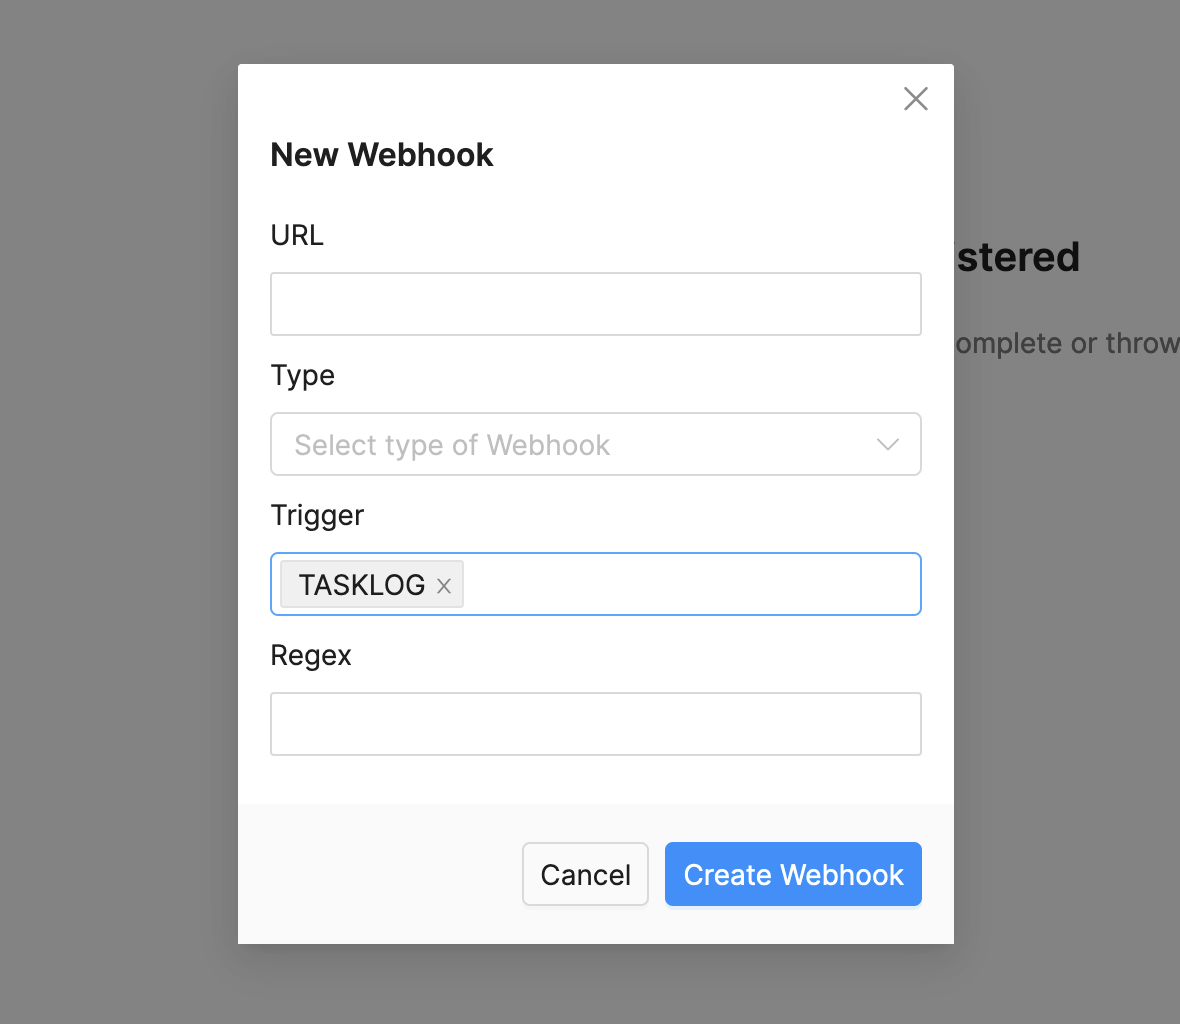
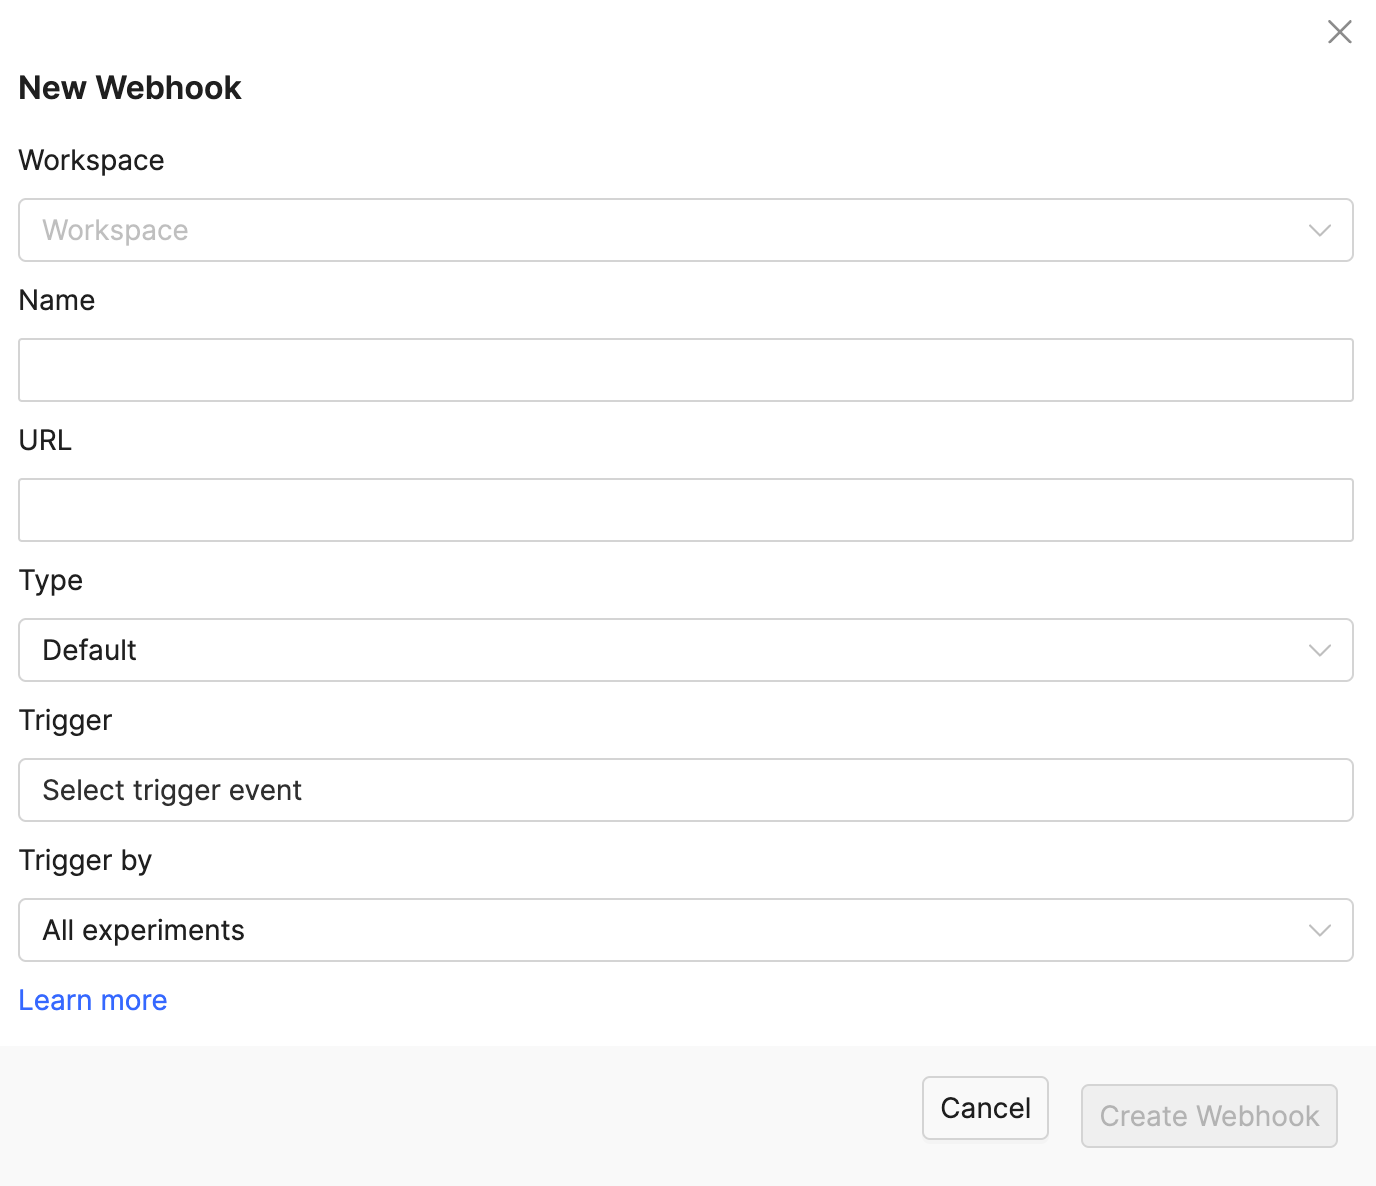
release notes and fixes

diff --git a/webui/react/src/components/WebhookCreateModal.tsx b/webui/react/src/components/WebhookCreateModal.tsx
@@ -5,6 +5,7 @@ import Select, { Option } from 'hew/Select';
 import { useToast } from 'hew/Toast';
 import React, { useCallback, useEffect, useId, useMemo, useState } from 'react';
 
+import Link from 'components/Link';
 import useFeature from 'hooks/useFeature';
 import usePermissions from 'hooks/usePermissions';
 import { paths } from 'routes/utils';
@@ -15,6 +16,7 @@ import { RunState, Workspace } from 'types';
 import handleError, { DetError, ErrorLevel, ErrorType } from 'utils/error';
 import { useObservable } from 'utils/observable';
 import { routeToReactUrl } from 'utils/routes';
+
 interface Props {
   onSuccess?: () => void;
 }
@@ -68,7 +70,7 @@ const triggerOptions = [
 ];
 const modeOptions = [
   {
-    label: 'All experiments in Workspace',
+    label: 'All experiments',
     value: V1WebhookMode.WORKSPACE,
   },
   {
@@ -188,11 +190,8 @@ const WebhookCreateModalComponent: React.FC<Props> = ({ onSuccess }: Props) => {
         onFieldsChange={onChange}>
         {f_webhook && (
           <>
-            <Form.Item
-              label="Workspace"
-              name="workspaceId"
-              rules={[{ message: 'Workspace is required', required: true }]}>
-              <Select allowClear placeholder="Workspace (required)">
+            <Form.Item label="Workspace" name="workspaceId">
+              <Select allowClear placeholder="Workspace">
                 {permWorkspace.map((workspace: Workspace) => (
                   <Option key={workspace.id} value={workspace.id}>
                     {workspace.name}
@@ -255,6 +254,9 @@ const WebhookCreateModalComponent: React.FC<Props> = ({ onSuccess }: Props) => {
             />
           </Form.Item>
         )}
+        <Link external path={paths.docs('/integrations/notification/_index.html')} popout>
+          Learn more
+        </Link>
       </Form>
     </Modal>
   );

diff --git a/webui/react/src/hooks/useFeature.ts b/webui/react/src/hooks/useFeature.ts
@@ -57,7 +57,7 @@ export const FEATURES: Record<ValidFeature, FeatureDescription> = {
     friendlyName: 'Manage Templates',
   },
   webhook_improvement: {
-    defaultValue: false,
+    defaultValue: true,
     description: 'Allow webhooks to monitor experiments by workspace',
     friendlyName: 'Webhook Improvement',
   },

diff --git a/master/internal/webhooks/postgres_webhook.go b/master/internal/webhooks/postgres_webhook.go
@@ -409,7 +409,7 @@ func getWebhookByName(ctx context.Context, webhookName string, workspaceID int) 
 		Model(&webhook).
 		Relation("Triggers").
 		Where("name = ?", webhookName).
-		Where("workspace_id = ?", workspaceID).
+		Where("workspace_id = ? OR workspace_id IS NULL", workspaceID).
 		Scan(ctx)
 	if err != nil {
 		if err == sql.ErrNoRows {
@@ -780,6 +780,7 @@ func generateSlackPayload(
 		} else {
 			eURL = fmt.Sprintf("%v (#%v)", activeConfig.Name(), e.ID)
 		}
+		c = "#009bde"
 		mStatus = string(e.State)
 	}
 
@@ -863,7 +864,7 @@ func generateSlackPayload(
 		}
 		messageBlock = SlackBlock{
 			Text: SlackField{
-				Text: "Event Data",
+				Text: status,
 				Type: "plain_text",
 			},
 			Type:   "section",

diff --git a/docs/integrations/notification/_index.rst b/docs/integrations/notification/_index.rst
@@ -122,6 +122,31 @@ Below is an example of handling a signed payload in Python.
    signed payload. For example "{"key_one": "value_one"}" will fail authentication, while
    "{"key_one":"value_one"}" will yield the correct signed payload value.
 
+.. _supported-webhook-triggers:
+
+Supported Triggers
+==================
+
+``Completed`` or ``Error`` will be triggered when an experiment in scope is completed or errored.
+
+``Tasklog`` will be triggered when a task matching regex is detected.
+
+``Custom`` will only be triggered from experiment code.
+
+.. code::
+
+   # Here is an example code to trigger a custom trigger.
+
+   # config.yaml
+   integrations:
+      webhooks:
+         webhook_name:
+            - <webhook_name>
+
+   # code.py
+   with det.core.init() as core_context:
+      core_context.alert(title="some title", description="some description", level="info")
+
 *******************
  Creating Webhooks
 *******************
@@ -140,11 +165,24 @@ To create a webhook:
    If you do not have sufficient permissions to view and create webhooks, consult with a systems
    admin.
 
+-  Workspace: You can only select from workspaces you have the permission to create webhook in.
+-  Name: Identifier to reference webhook in experiment configuration.
 -  URL: Supply the webhook URL.
 -  Type: Select a type, either ``Default`` or ``Slack``. The ``Slack`` type can automatically format
    message content for better readability on Slack.
--  Trigger: Select the experiment state change you want to monitor, either ``Completed``, ``Error``,
-   or ``Tasklog``.
+-  Trigger: Select the event you want to monitor, see :ref:`supported-webhook-triggers`.
+-  Trigger by: Select whether you want to monitor all experiments within the workspace. ``Custom``
+   trigger can only be triggered by specific experiments.
+
+.. code::
+
+   # Here is an example experiment config associated with specific webhooks
+
+   integrations:
+      webhooks:
+         webhook_name:
+            - <webhook_name>
+
 -  Regex: If the webhook is configured to trigger on Tasklog, define a regex using `Golang Regex
    Syntax <https://pkg.go.dev/regexp/syntax>`_.
 
@@ -152,7 +190,8 @@ To create a webhook:
    :width: 100%
    :alt: Webhook user interface showing the fields you will interact with.
 
-Once created, your webhook will begin executing for the selected events.
+Once created, your webhook will begin executing for the selected events for experiments within
+scope.
 
 ******************
  Testing Webhooks
@@ -189,10 +228,17 @@ payload as stated below:
 To delete a webhook, select the more-options menu to the right of the webhook record to expand
 available actions.
 
+******************
+ Editing Webhooks
+******************
+
+To edit a webhook, select the more-options menu to the right of the webhook record to expand
+available actions.
+
 .. note::
 
-   Determined does not support editing webhooks. Instead, you should delete and recreate the
-   webhook.
+   Determined only support editing the URL of webhooks. To edit other attributes, you should delete
+   and recreate the webhook.
 
 .. toctree::
    :caption: Notification

diff --git a/docs/release-notes/workload-alerting.rst b/docs/release-notes/workload-alerting.rst
@@ -1,0 +1,6 @@
+:orphan:
+
+**New Features**
+
+-  Webhooks: Add support for monitoring experiment by workspaces, editing webhook URL and triggering webhook from code. For more details, refer to :ref:`supported-webhook-triggers`.
+
